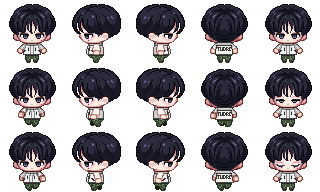
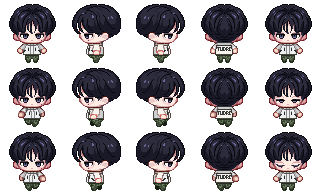
Apply Taana sortie sprites and Taana and Colyn downed artwork

Changed region(s): [[0.625, 0.4688, 0.7812, 0.6562], [0.625, 0.3438, 0.7812, 0.4688]]

diff --git a/塔防原型.html b/塔防原型.html
@@ -234,7 +234,7 @@
   <script src="js/music.js?v=off-20261008"></script>        <!-- 1c. 背景音樂 -->
   <script src="js/ui-feedback.js?v=tpad-20261022"></script> <!-- 共用按鈕與切換回饋 -->
 
-  <script src="data/characters.js?v=colynparry-20261023"></script>  <!-- 集中管理所有角色 -->
+  <script src="data/characters.js?v=taana-sortie-20261023"></script>  <!-- 集中管理所有角色 -->
   <script src="data/gifts.js?v=giftlines-20261023"></script>   <!-- 送禮：角色喜好、台詞、好感度等級 -->
   <script src="data/items.js?v=card-consume-20261018"></script>   <!-- 背包物品分類與其他物品 -->
   <script src="data/supplies.js?v=quick10-20261022"></script>   <!-- 溫特可購買、使用的個人補給 -->
@@ -321,7 +321,7 @@
   <script src="js/mrt-locks.js?v=mrt-layered-art-20261018"></script>   <!-- 捷運閘門（好遊卡）、封鎖的入口（異質鑰匙） -->
   <script>document.write('<script src="data/ui-layout.js?t=' + Date.now() + '"><\/script>');</script>   <!-- 遊戲畫面 UI 的位置、大小（UI編輯器匯出）；每次都讀最新的，存完不用清快取 -->
   <script src="js/ui-layout.js?v=quick10-20261022"></script>   <!-- 套用上面的 UI 版面 -->
-  <script src="js/game.js?v=esclayer-20261023"></script>         <!-- 10. 遊戲主邏輯（啟動遊戲，必須最後） -->
+  <script src="js/game.js?v=taana-colyn-fail-20261023"></script>         <!-- 10. 遊戲主邏輯（啟動遊戲，必須最後） -->
   <script src="js/core-clear.js?v=flash2x2-20261022"></script>   <!-- 核心全破：異質鑰匙、結算、留下來清場、徹底控制 -->
   <script src="js/graffiti.js?v=graffiti5-20261018"></script>   <!-- 塗鴉筆：在牆上、地板、物品上畫記號 -->
   <script src="js/quick-slots.js?v=hint-hover-20261023"></script>   <!-- 下方快捷欄 1～0：把背包的道具拖進去（必須在 shop、backpack、equipment、graffiti 之後） -->

diff --git a/js/game.js b/js/game.js
@@ -30,7 +30,7 @@ const CHARACTER_SPRITE_FILES = {
 const GUN_FILES = { gunFront: '0000_Front_withgun.png', gunBack: '0009_back_withgun.png', gunLeft: '0003_Leftside_withgun.png', gunRight: '0006_right-side_withgun.png' };
 const GUN_FOLDERS = new Set(['theonie_B', 'amber_B', 'eldrin_B', 'chris_B', 'winter_B']);
 // 失去戰鬥能力時的倒地圖（<資料夾>/<資料夾去掉底線>_fail.png）；有些角色用別張就寫在值裡（艾德林：躺在地上的那張，躺擔架的是 eldrinB_fail.png）
-const FAIL_FILES = { winter_B: 'fail.png', theonie_B: 'fail.png', amber_B: 'fail.png', red_B: 'fail.png', luther_B: 'fail.png', avaren_B: 'fail.png', eldrin_B: 'fail02.png', chris_B: 'fail.png' };
+const FAIL_FILES = { winter_B: 'fail.png', theonie_B: 'fail.png', amber_B: 'fail.png', red_B: 'fail.png', luther_B: 'fail.png', avaren_B: 'fail.png', eldrin_B: 'fail02.png', chris_B: 'fail.png', colyn_B: 'fail.png', taana_B: 'fail.png' };
 function loadCharacterSprites(folder) {   // folder 例如 'winter_B'
   const prefix = folder.replace('_', '') + '_';
   const revision = folder === 'chris_A' ? '?v=chris-a-20261021-2' : '';

diff --git a/data/characters.js b/data/characters.js
@@ -378,7 +378,7 @@ const CHARACTERS = {
     "id": "taana",
     "kind": "guide",
     "name": "塔納",
-    "sprite": "taana_A",
+    "sprite": "taana_B",
     "combat": {
       "rank": "A",
       "role": "疏導支援",
